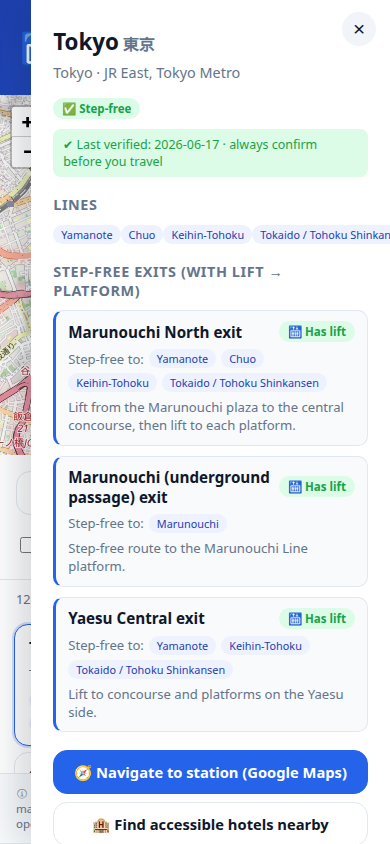
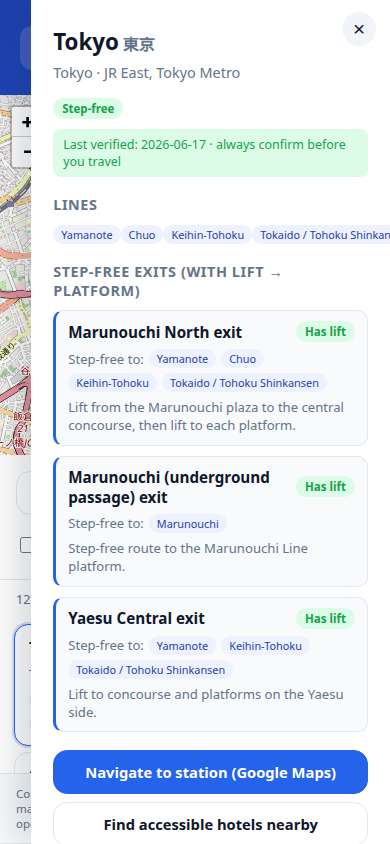
Rename site to "Where's the Lift?" and remove all emoji
- Rename the website to "Where's the Lift?" across UI and docs
- Replace header emoji with a clean inline SVG lift icon
- Replace emoji map markers with colored status dots (green/amber/red)
- Strip emojis from badges, buttons, verified note, report link, disclaimer
- Fix detail badge that showed "undefined" after removing the status icon
- Refresh preview screenshots

diff --git a/js/app.js b/js/app.js
@@ -6,9 +6,9 @@
   "use strict";
 
   var STATUS = {
-    yes: { label: "Step-free", icon: "✅" },
-    partial: { label: "Partly step-free", icon: "⚠" },
-    no: { label: "No step-free route", icon: "⛔" }
+    yes: { label: "Step-free" },
+    partial: { label: "Partly step-free" },
+    no: { label: "No step-free route" }
   };
 
   var state = {
@@ -79,7 +79,7 @@
         state.stations = data.stations || [];
         if (data.meta) {
           if (data.meta.disclaimer) {
-            els.disclaimer.textContent = "ⓘ " + data.meta.disclaimer;
+            els.disclaimer.textContent = data.meta.disclaimer;
           }
           state.reportUrl = data.meta.reportUrl || "";
         }
@@ -141,7 +141,7 @@
         '<li class="station-card' + (s.id === state.activeId ? " active" : "") + '" data-id="' + s.id + '" tabindex="0" role="button">' +
         '<div style="display:flex;justify-content:space-between;gap:8px;align-items:flex-start">' +
         "<h3>" + escapeHtml(s.name) + '<span class="ja">' + escapeHtml(s.nameJa || "") + "</span></h3>" +
-        '<span class="badge ' + s.stepFree + '">' + st.icon + " " + st.label + "</span>" +
+        '<span class="badge ' + s.stepFree + '">' + st.label + "</span>" +
         "</div>" +
         '<p class="meta">' + escapeHtml(s.city) + " · " + escapeHtml((s.operators || []).join(", ")) + "</p>" +
         '<div class="lines">' + lines + more + "</div>" +
@@ -168,9 +168,9 @@
     state.filtered.forEach(function (s) {
       var icon = L.divIcon({
         className: "",
-        html: '<div class="marker-pin">' + (STATUS[s.stepFree] || STATUS.no).icon + "</div>",
-        iconSize: [24, 24],
-        iconAnchor: [12, 12]
+        html: '<span class="marker-dot marker-' + s.stepFree + '"></span>',
+        iconSize: [20, 20],
+        iconAnchor: [10, 10]
       });
       var m = L.marker([s.lat, s.lng], { icon: icon, title: s.name });
       m.on("click", function () { selectStation(s.id, false); });
@@ -202,8 +202,8 @@
 
     var entrances = (s.entrances || []).map(function (e) {
       var liftBadge = e.hasLift
-        ? '<span class="badge yes">🛗 Has lift</span>'
-        : '<span class="badge no">🚫 No lift</span>';
+        ? '<span class="badge yes">Has lift</span>'
+        : '<span class="badge no">No lift</span>';
       var platforms = (e.toPlatforms || []).map(function (p) {
         return '<span class="line-pill">' + escapeHtml(p) + "</span>";
       }).join("");
@@ -226,24 +226,24 @@
     var navQuery = encodeURIComponent(s.name + " station " + s.city + " Japan");
 
     var verified = s.lastVerified
-      ? '<p class="verified">✔ Last verified: ' + escapeHtml(s.lastVerified) + " · always confirm before you travel</p>"
+      ? '<p class="verified">Last verified: ' + escapeHtml(s.lastVerified) + " · always confirm before you travel</p>"
       : "";
 
     var reportLink = state.reportUrl
-      ? '<a class="report" target="_blank" rel="noopener" href="' + escapeHtml(state.reportUrl) + '">⚑ Report a problem with this info</a>'
+      ? '<a class="report" target="_blank" rel="noopener" href="' + escapeHtml(state.reportUrl) + '">Report a problem with this info</a>'
       : "";
 
     els.detailBody.innerHTML =
       "<h2>" + escapeHtml(s.name) + '<span class="ja"> ' + escapeHtml(s.nameJa || "") + "</span></h2>" +
       '<p class="sub">' + escapeHtml(s.city) + " · " + escapeHtml((s.operators || []).join(", ")) + "</p>" +
-      '<span class="badge ' + s.stepFree + '">' + st.icon + " " + st.label + "</span>" +
+      '<span class="badge ' + s.stepFree + '">' + st.label + "</span>" +
       verified +
       "<h4>Lines</h4><div class=\"lines\">" + lines + "</div>" +
       "<h4>Step-free exits (with lift → platform)</h4>" + entrances +
       '<div class="actions">' +
-      '<a class="btn btn-primary" target="_blank" rel="noopener" href="https://www.google.com/maps/dir/?api=1&destination=' + navQuery + '">🧭 Navigate to station (Google Maps)</a>' +
-      '<a class="btn btn-secondary" target="_blank" rel="noopener" href="https://www.google.com/maps/search/?api=1&query=' + hotelQuery + '">🏨 Find accessible hotels nearby</a>' +
-      (s.officialUrl ? '<a class="btn btn-secondary" target="_blank" rel="noopener" href="' + escapeHtml(s.officialUrl) + '">ⓘ Official station info</a>' : "") +
+      '<a class="btn btn-primary" target="_blank" rel="noopener" href="https://www.google.com/maps/dir/?api=1&destination=' + navQuery + '">Navigate to station (Google Maps)</a>' +
+      '<a class="btn btn-secondary" target="_blank" rel="noopener" href="https://www.google.com/maps/search/?api=1&query=' + hotelQuery + '">Find accessible hotels nearby</a>' +
+      (s.officialUrl ? '<a class="btn btn-secondary" target="_blank" rel="noopener" href="' + escapeHtml(s.officialUrl) + '">Official station info</a>' : "") +
       "</div>" +
       reportLink;
 

diff --git a/index.html b/index.html
@@ -3,8 +3,8 @@
 <head>
   <meta charset="UTF-8" />
   <meta name="viewport" content="width=device-width, initial-scale=1.0" />
-  <title>Japan Station Lift Finder — Find step-free stations & elevators</title>
-  <meta name="description" content="Find which JR and metro stations in Japan have elevators (lifts) and step-free access, so you can pick an accessible hotel nearby." />
+  <title>Where's the Lift? — Step-free stations & elevators in Japan</title>
+  <meta name="description" content="Find which JR and metro stations in Japan have a lift (elevator) and step-free access from the exit to the platform, so you can pick an accessible hotel nearby." />
 
   <link rel="preconnect" href="https://unpkg.com" />
   <link rel="stylesheet" href="https://unpkg.com/leaflet@1.9.4/dist/leaflet.css"
@@ -14,10 +14,17 @@
 <body>
   <header class="app-header">
     <div class="brand">
-      <span class="brand-mark" aria-hidden="true">🛗</span>
+      <span class="brand-mark" aria-hidden="true">
+        <svg viewBox="0 0 24 24" width="26" height="26" fill="none" stroke="currentColor" stroke-width="2" stroke-linecap="round" stroke-linejoin="round">
+          <rect x="4" y="3" width="16" height="18" rx="2" />
+          <path d="M12 3v18" />
+          <path d="M8.5 9 7 7.5 5.5 9" />
+          <path d="M15.5 15 17 16.5 18.5 15" />
+        </svg>
+      </span>
       <div>
-        <h1>Japan Station Lift Finder</h1>
-        <p class="tagline">Find stations with elevators &amp; step-free access — then pick a hotel nearby.</p>
+        <h1>Where's the Lift?</h1>
+        <p class="tagline">Find stations in Japan with a lift from the exit to the platform — then pick a hotel nearby.</p>
       </div>
     </div>
   </header>

diff --git a/css/styles.css b/css/styles.css
@@ -49,7 +49,13 @@ body {
   z-index: 500;
 }
 .brand { display: flex; align-items: center; gap: 14px; }
-.brand-mark { font-size: 32px; line-height: 1; }
+.brand-mark {
+  display: inline-flex; align-items: center; justify-content: center;
+  width: 44px; height: 44px; flex: none;
+  background: rgba(255, 255, 255, 0.15);
+  border-radius: 12px;
+  color: #fff;
+}
 .app-header h1 { font-size: 1.25rem; margin: 0; letter-spacing: -0.01em; }
 .tagline { margin: 2px 0 0; font-size: 0.85rem; opacity: 0.9; }
 
@@ -209,11 +215,18 @@ body {
 
 .empty { padding: 30px 16px; text-align: center; color: var(--muted); font-size: .9rem; }
 
-/* Leaflet marker label */
-.marker-pin {
-  font-size: 20px; line-height: 1;
-  filter: drop-shadow(0 1px 2px rgba(0,0,0,.4));
+/* Leaflet map markers (colored dots, no emoji) */
+.marker-dot {
+  display: block;
+  width: 18px; height: 18px;
+  border-radius: 50%;
+  border: 3px solid #fff;
+  box-shadow: 0 1px 4px rgba(15, 23, 42, 0.45);
+  box-sizing: border-box;
 }
+.marker-dot.marker-yes { background: var(--ok); }
+.marker-dot.marker-partial { background: var(--warn); }
+.marker-dot.marker-no { background: var(--no); }
 
 /* Mobile */
 @media (max-width: 820px) {

diff --git a/README.md b/README.md
@@ -1,17 +1,17 @@
-# Japan Station Lift Finder 🛗
+# Where's the Lift?
 
-A simple website that helps travelers find which **JR and metro stations in Japan have elevators (lifts) and step-free access** — so you can confidently pick a hotel near a station you can actually get in and out of with luggage, a stroller, or a wheelchair.
+A simple website that helps travelers find which **JR and metro stations in Japan have a lift (elevator) and step-free access** from the exit to the platform — so you can confidently pick a hotel near a station you can actually get in and out of with luggage, a stroller, or a wheelchair.
 
 > **Why this exists:** When booking a hotel in Japan it's hard to know whether the nearest station is step-free. Stairs-only stations are a real problem with suitcases or reduced mobility. This tool puts that information on a map and in search results.
 
 ## Features
 
-- 🔎 **Search** stations by English or Japanese name, city, line, or operator.
-- 🗺 **Interactive map** (OpenStreetMap / Leaflet) with a marker per station, colored by accessibility status.
-- ✅⚠⛔ **Step-free status** at a glance: fully step-free, partly step-free, or no step-free route.
-- 🛗 **Elevator details** per station: which levels each lift connects, plus accessible exits.
-- 🏨 **"Find accessible hotels nearby"** and **"Open in Google Maps"** shortcuts for each station.
-- 📱 **Mobile-friendly** layout for use while traveling.
+- **Search** stations by English or Japanese name, city, line, or operator.
+- **Interactive map** (OpenStreetMap / Leaflet) with a marker per station, colored by accessibility status.
+- **Step-free status** at a glance: fully step-free, partly step-free, or no step-free route.
+- **Lift / exit details** per station: which exit has a lift and which platforms it reaches step-free.
+- **"Navigate to station"** and **"Find accessible hotels nearby"** shortcuts (Google Maps) for each station.
+- **Mobile-friendly** layout for use while traveling.
 
 ## Preview
 
@@ -88,7 +88,7 @@ data/stations.json  # Curated station accessibility dataset
 2. Use a unique `id`, accurate `lat`/`lng`, and set `stepFree` honestly.
 3. Open a pull request.
 
-### ⚠ Disclaimer
+### Disclaimer
 
 Elevator availability can change due to maintenance or construction. **Always verify with the official operator before you travel**, especially if you rely on step-free access. Use the "Official station info" link on each station for the authoritative source.
 

diff --git a/PROJECT_PLAN.md b/PROJECT_PLAN.md
@@ -1,4 +1,4 @@
-# Japan Station Lift Finder — Project Plan
+# Where's the Lift? — Project Plan
 
 > A living document capturing the goal, scope, and decisions for the project.
 > Last updated: 2026-06-17
@@ -26,7 +26,7 @@ hotel near a station they can actually get in and out of.
 - **Core question per station:** Is there an **exit that has a lift**, and does
   that lift route connect to the **designated platform** (street → concourse →
   platform, fully step-free)?
-- Show the **step-free status**: ✅ yes / ⚠ partial / ⛔ no.
+- Show the **step-free status**: yes / partial / no.
 - Show **which exit(s) have a lift** and **which platforms / lines** they reach
   step-free.
 - Show a **"last verified" date** + a link to the **official source**.
@@ -36,11 +36,11 @@ hotel near a station they can actually get in and out of.
 - **Map** view (Leaflet + OpenStreetMap, no API key) + searchable list.
 
 ### Explicitly OUT of scope (decided)
-- ❌ **Which car / boarding position** ("board car X to be nearest the lift").
+- **Which car / boarding position** ("board car X to be nearest the lift").
   Not needed.
-- ❌ **Bus stations** — the user can get to the platform themselves.
-- ❌ **Transfer routing** (multi-line journeys) — not in v1.
-- ❌ Building our own walking directions — Google Maps handles that.
+- **Bus stations** — the user can get to the platform themselves.
+- **Transfer routing** (multi-line journeys) — not in v1.
+- Building our own walking directions — Google Maps handles that.
 
 ## 4. Geographic Coverage (v1)
 
@@ -86,7 +86,7 @@ hotel near a station they can actually get in and out of.
 
 ## 6. Display per Station
 
-- ✅ / ⚠ / ⛔ overall step-free status.
+- Overall step-free status (yes / partial / no).
 - **Which exit has a lift → which line/platform it reaches.**
 - Map marker + station location.
 - Buttons: **Navigate to station (Google Maps)**, **Find accessible hotels
